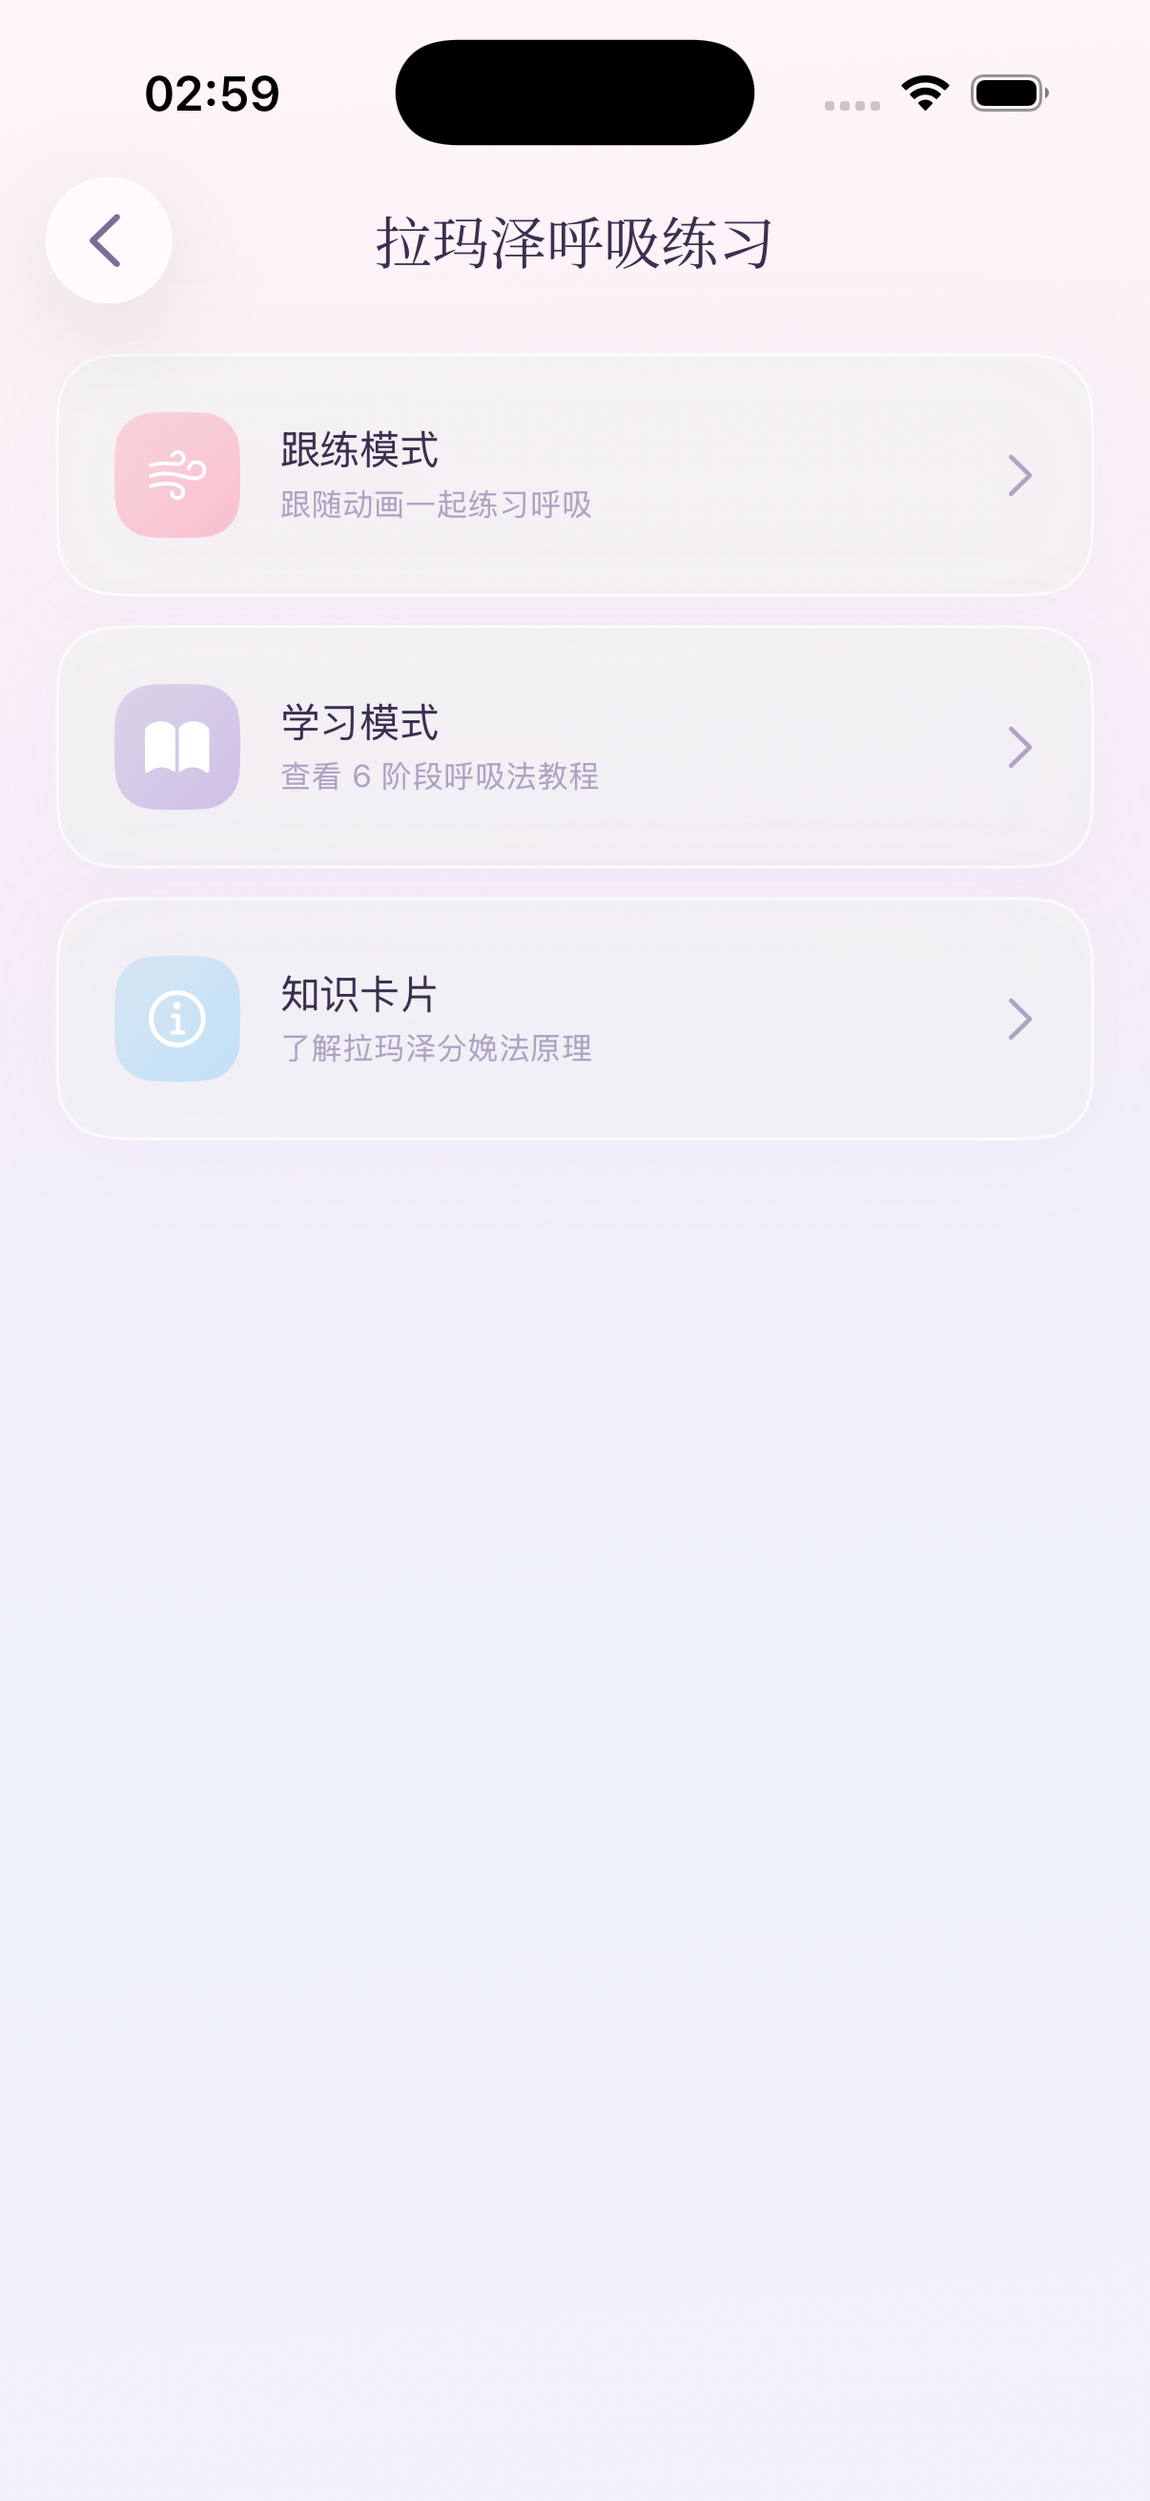
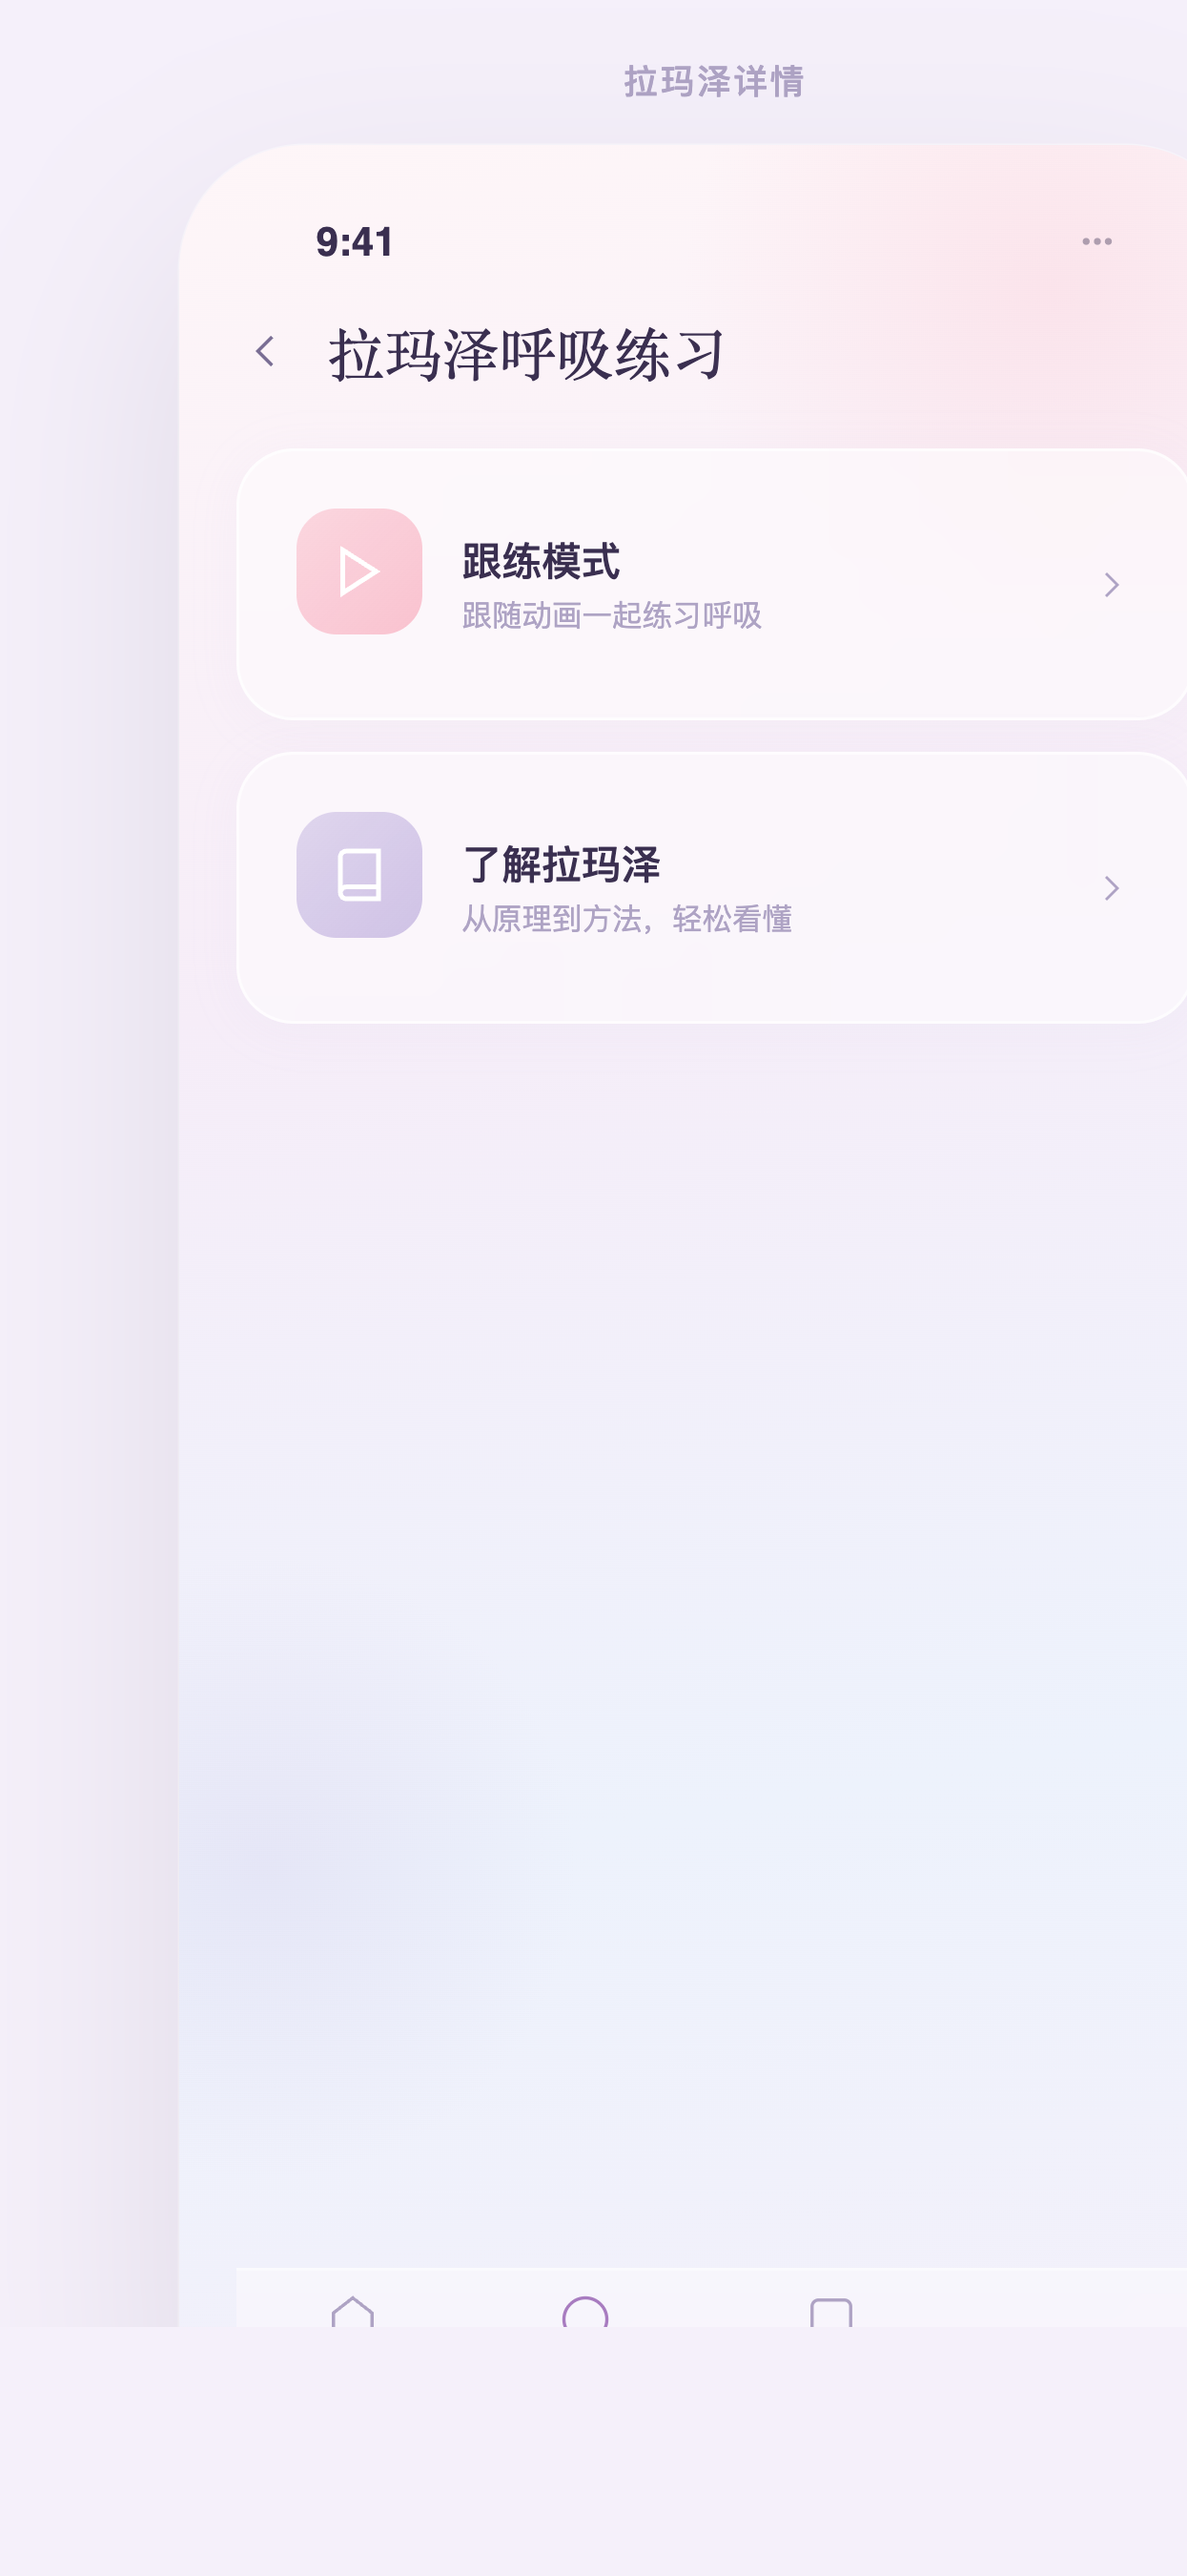
docs: 拉玛泽学习模式重设计独立 PRD + design 截图
包含：
- 背景/目标/改动范围
- 6 阶段完整文案
- 交互细节（导航/返回/完成页/卡片状态）
- Design 截图 + 对应 design.html 屏号
- 开发注意事项

diff --git a/PRD-LAMAZE-LEARN-REDESIGN.md b/PRD-LAMAZE-LEARN-REDESIGN.md
@@ -1,0 +1,139 @@
+# PRD: 拉玛泽学习模式重设计
+
+**Issue:** #161  
+**状态:** 等待 approve  
+**作者:** Manta  
+**日期:** 2026-04-14  
+
+---
+
+## 1. 背景
+
+当前拉玛泽有 3 个入口：跟练模式、学习模式、知识卡片。
+
+**问题：**
+- 学习模式内容太干巴巴（只有"吸气 4 秒呼气 6 秒"），用户看不懂拉玛泽是什么
+- 知识卡片没有定义点击行为（PRD 遗漏）
+- 学习模式和知识卡片功能重叠——都是"看文字了解拉玛泽"
+
+## 2. 目标
+
+合并学习模式 + 知识卡片为一个"了解拉玛泽"入口，用人话重写 6 阶段内容，让用户真正看懂拉玛泽呼吸法。
+
+## 3. 改动范围
+
+### 3.1 模式选择页（design.html 屏号：⑨ LAMAZE DETAIL）
+
+**Before（3 入口）：**
+- 跟练模式
+- 学习模式
+- 知识卡片
+
+**After（2 入口）：**
+- 跟练模式 — 跟随动画一起练习呼吸
+- 了解拉玛泽 — 从原理到方法，轻松看懂
+
+**Design 截图：**
+
+![mode-selection](https://raw.githubusercontent.com/GhostComplex/Blossom/feat/lamaze-learn-redesign/.github/screenshots/lamaze-mode-selection.png)
+
+### 3.2 了解拉玛泽页面（design.html 屏号：⑨-learn 了解拉玛泽）— 新增
+
+**页面结构：**
+- 顶部：返回按钮 + 标题"了解拉玛泽"
+- 简介段落
+- 6 个阶段卡片（全部展开，ScrollView 滚动）
+- 底部免责声明
+
+**Design 截图：**
+
+![learn-detail](https://raw.githubusercontent.com/GhostComplex/Blossom/feat/lamaze-learn-redesign/.github/screenshots/lamaze-learn-detail.png)
+
+## 4. 六阶段教程内容
+
+### 第 1 阶段：清洁呼吸
+- 什么时候用：每次宫缩开始和结束时
+- 为什么：帮你从紧张切换到放松，像一个呼吸的"开关"
+- 怎么做：鼻子慢慢吸气 4 秒 → 嘴巴慢慢呼气 6 秒，重复 6 次
+
+### 第 2 阶段：胸式呼吸
+- 什么时候用：宫缩初期，开指 0-3cm，间隔 5-20 分钟
+- 为什么：宫缩还不太强时，用缓慢的胸部呼吸保持平静
+- 怎么做：鼻子吸气 4 秒 → 嘴巴呼气 4 秒，节奏平稳
+
+### 第 3 阶段：节律呼吸
+- 什么时候用：活跃期，开指 3-8cm，宫缩变强变频繁
+- 为什么：随着宫缩加强，呼吸跟着加快，帮你"骑"在宫缩上面
+- 怎么做：吸气 3 秒 → 呼气 3 秒，比第 2 阶段稍快
+
+### 第 4 阶段：喘息呼吸
+- 什么时候用：过渡期，开指 7-10cm，宫缩最强的时候
+- 为什么：这是最难熬的阶段，浅快的呼吸帮你"度过"每一波宫缩
+- 怎么做：嘴巴浅快呼吸，像说"嘻-嘻-呼"，每组 1 秒吸 1 秒呼
+
+### 第 5 阶段：吹气呼吸
+- 什么时候用：想用力但医生说还不能用力的时候
+- 为什么：吹气能抑制用力的冲动，帮你等到正确的时机
+- 怎么做：像吹蜡烛一样用力吹气，转移注意力
+
+### 第 6 阶段：用力呼吸
+- 什么时候用：全开（10cm），医生说可以用力了
+- 为什么：配合用力的呼吸让每一次推更有效
+- 怎么做：深吸一口气 → 憋住 → 跟着宫缩用力推
+
+## 5. 页面开头简介
+
+> 拉玛泽呼吸法是一种帮助你在分娩时保持平静的呼吸技巧。通过不同阶段的呼吸方式，配合宫缩节奏，让你在最需要的时候找到掌控感。
+
+## 6. 交互细节
+
+### 6.1 导航流程
+```
+Tasks Tab
+  └→ 拉玛泽卡片
+      └→ Mode Selection（跟练 / 了解拉玛泽）
+          ├→ 跟练模式（不变）
+          └→ 了解拉玛泽
+              ├→ 阅读 6 阶段内容
+              └→ "试试这个阶段" → Prep 页 → Timer → 完成页
+                                                      └→ "继续了解" → 回到了解页
+```
+
+### 6.2 返回逻辑
+| 当前页面 | 返回去哪 |
+|---------|---------|
+| 了解拉玛泽 | Mode Selection 页 |
+| Prep 页（从了解进入） | 了解拉玛泽 |
+| Timer（从了解进入） | 了解拉玛泽 |
+| 完成页（从了解进入） | 了解拉玛泽（按钮文案"继续了解"） |
+
+### 6.3 "试试这个阶段"按钮
+- 点击 → 直接进入该阶段的 prep 页（跳过 mode selection 和阶段选择）
+- 复用现有 prep → timer → 完成 流程
+- 区别：完成页按钮文案从"返回首页"改为"继续了解"，点击后回到了解页面
+
+### 6.4 卡片状态
+- 6 个阶段卡片全部展开，不做折叠/展开交互
+- ScrollView 垂直滚动
+
+## 7. 底部免责声明
+
+> 本内容仅供参考，不构成医学建议，请遵医嘱。
+
+## 8. Design 参考
+
+| 屏号 | 页面 | 说明 |
+|------|------|------|
+| ⑨ LAMAZE DETAIL | 模式选择页 | 改动：3 入口 → 2 入口 |
+| ⑨-learn | 了解拉玛泽 | 新增：6 阶段卡片 + 简介 + 免责 |
+| ⑨-a LAMAZE 准备开始 | Prep 页 | 不变，复用 |
+| LAMAZE TIMER | Timer 页 | 不变，复用 |
+| COMPLETION | 完成页 | 改动：按钮文案"继续了解"（仅从了解入口进入时） |
+
+## 9. 开发注意事项
+
+1. Mode selection 页删除"学习模式"和"知识卡片"入口，保留"跟练模式"，新增"了解拉玛泽"
+2. 新建 `LamazeLearningView`（了解拉玛泽页面），内容硬编码在 Swift 里（不需要后端）
+3. "试试这个阶段"按钮需要传递 stage 参数给 prep 页
+4. 完成页需要根据来源（跟练 vs 了解）决定按钮文案和返回目标
+5. 导航栈：了解页面 push prep → push timer → push 完成 → pop 到了解页面
